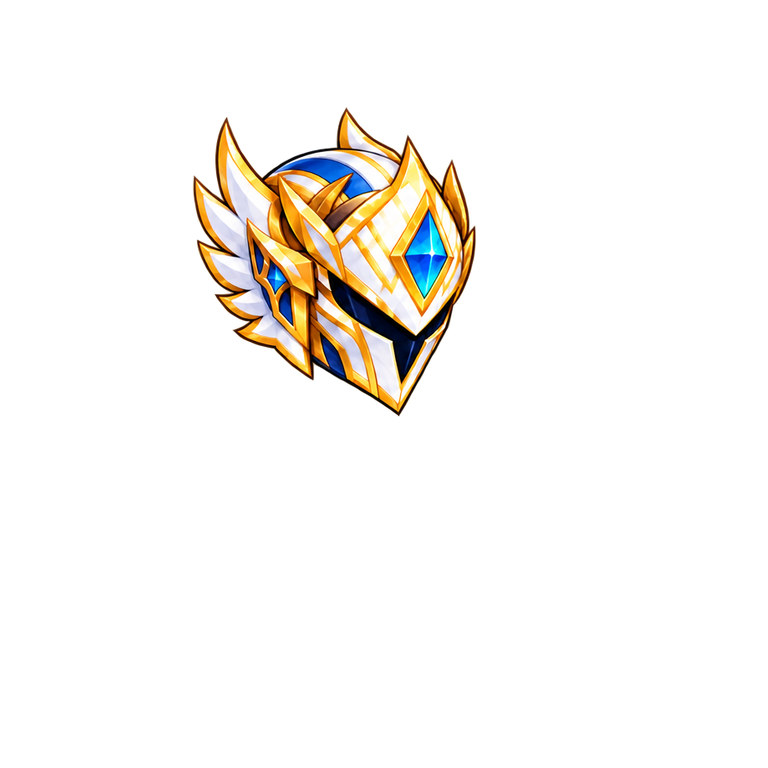
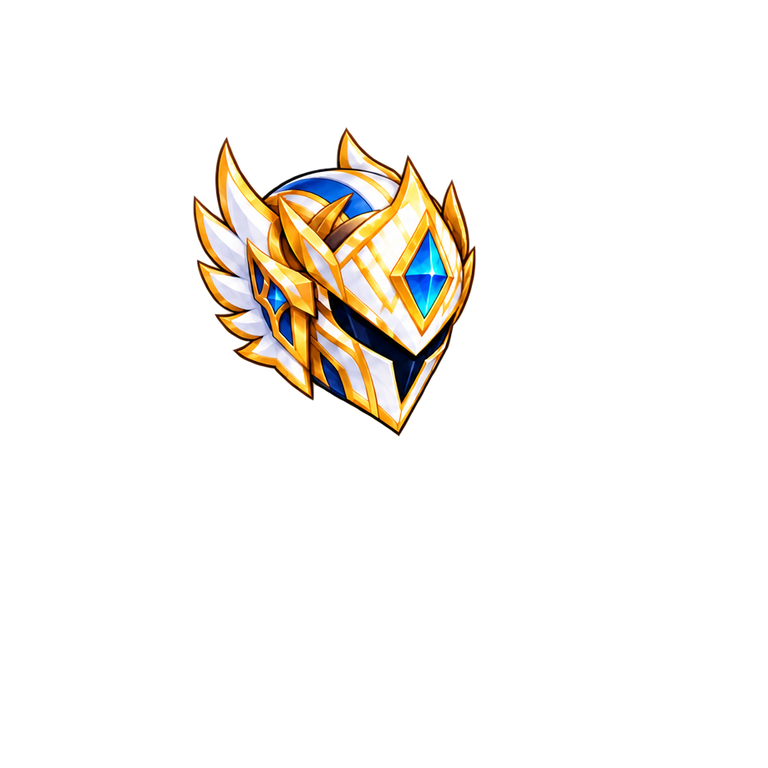
graphics: lower approved Azure idle helmets by 20px

Changed region(s): [[0.25, 0.125, 0.625, 0.5625]]

diff --git a/docs/hero-v5-azure-fullface-production/IDLE_R2.md b/docs/hero-v5-azure-fullface-production/IDLE_R2.md
@@ -1,0 +1,3 @@
+# Azure idle helmet R2
+
+LOW risk, approved graphics-only correction. Three idle helmet.png files translated down20px, unchanged scale. Their manifest URLs use azure_angel_fullface_idle_r2. Attack and both death PNGs unchanged. Death01 revisions remain review-only and are NOT in this release. R2 workflow verifies six changed objects. No runtime or gameplay code changes.
